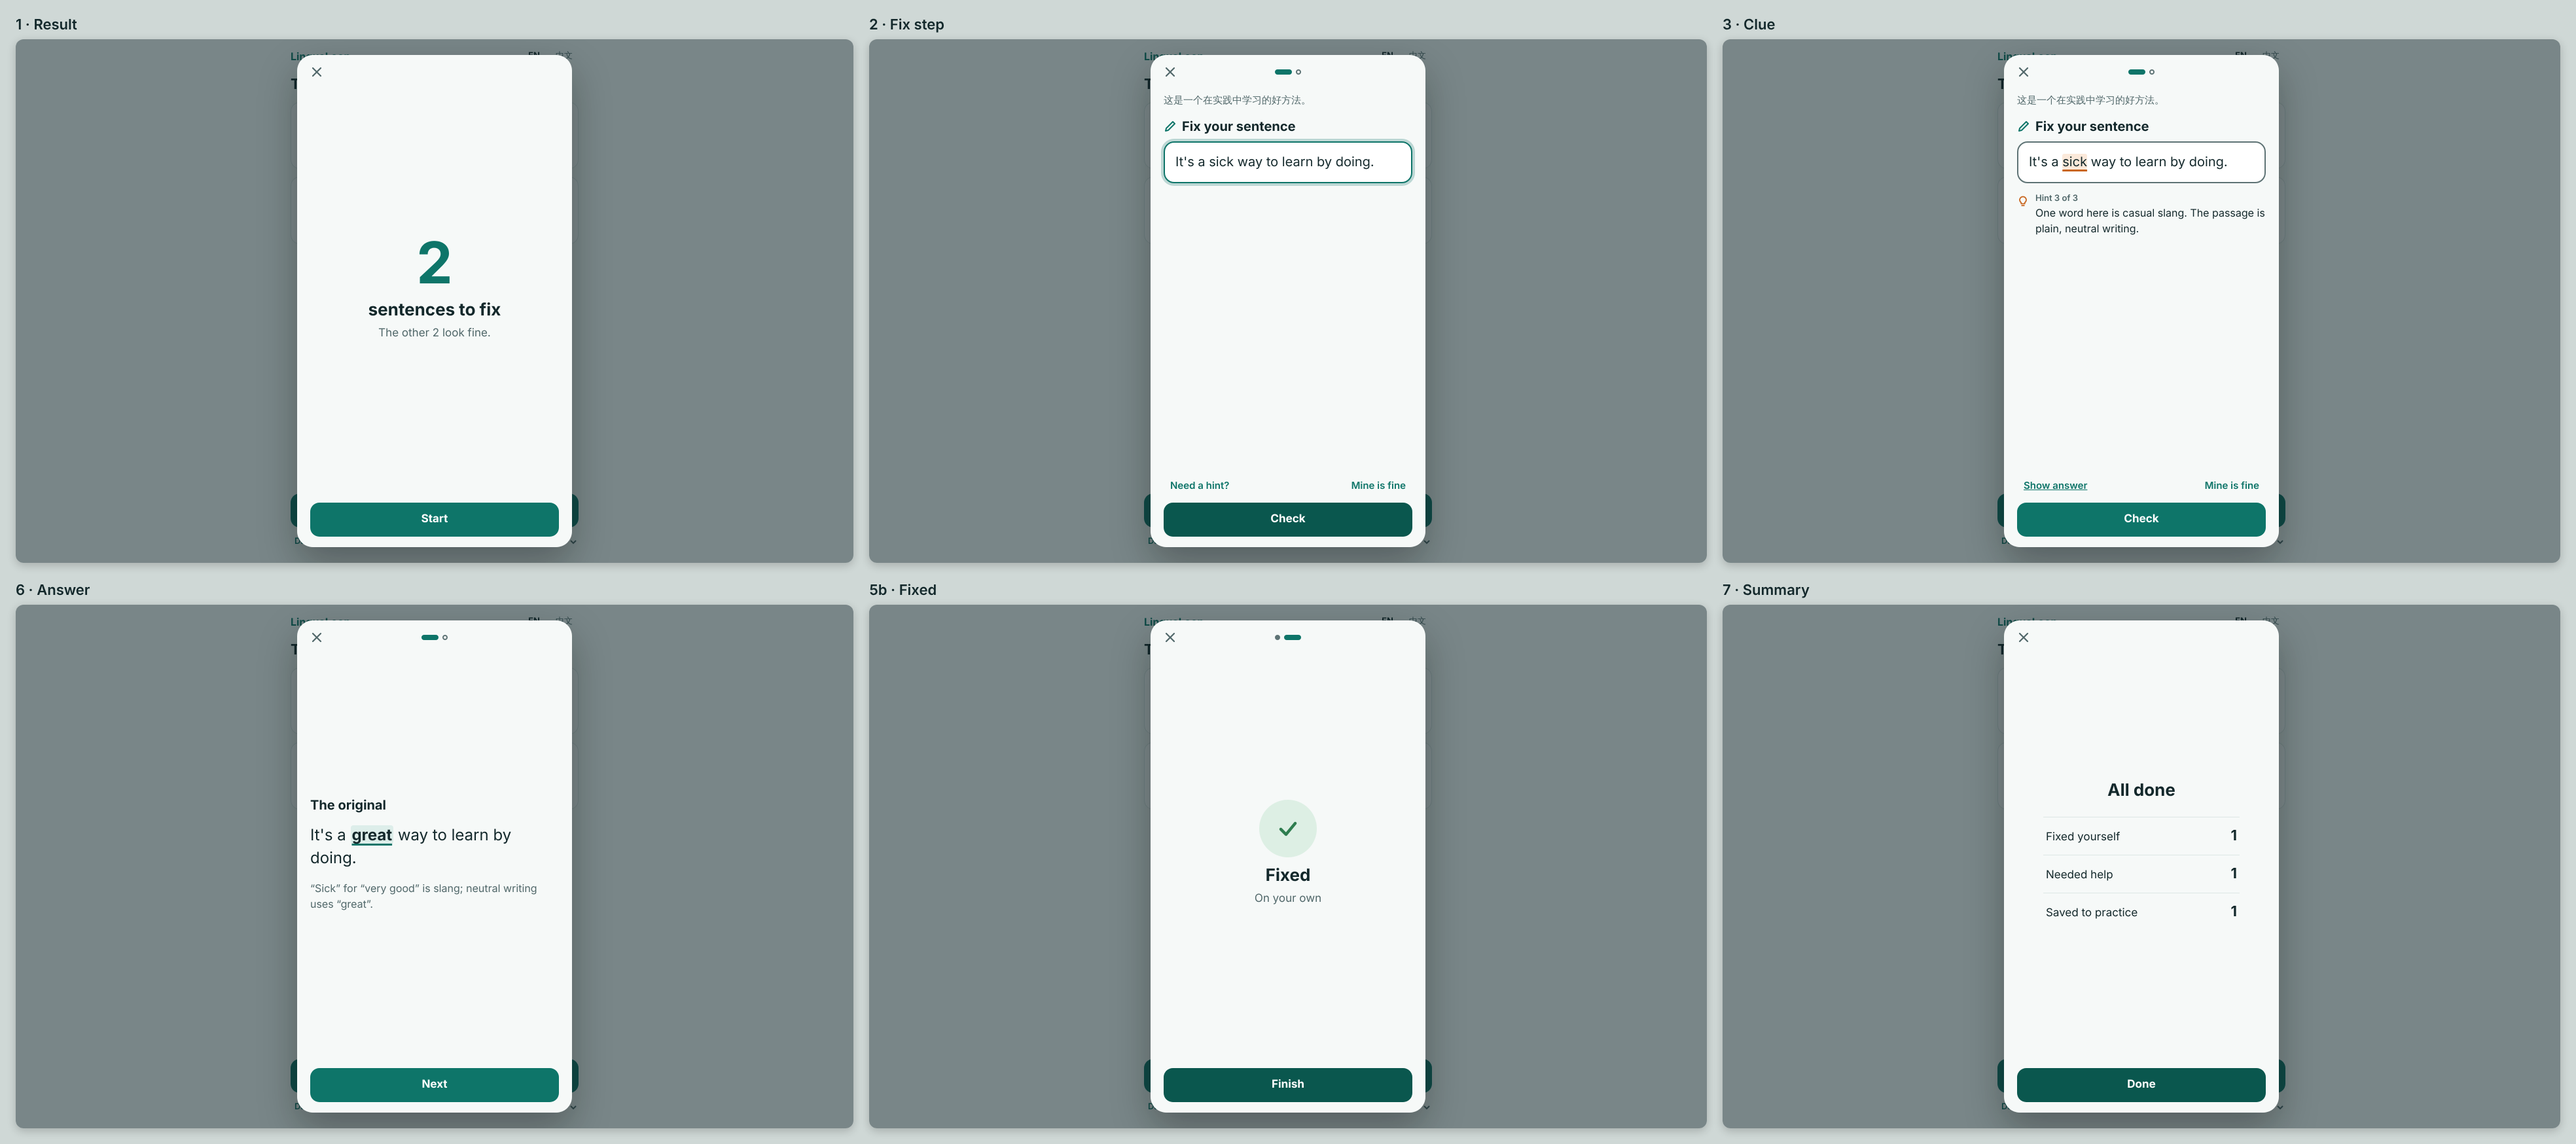
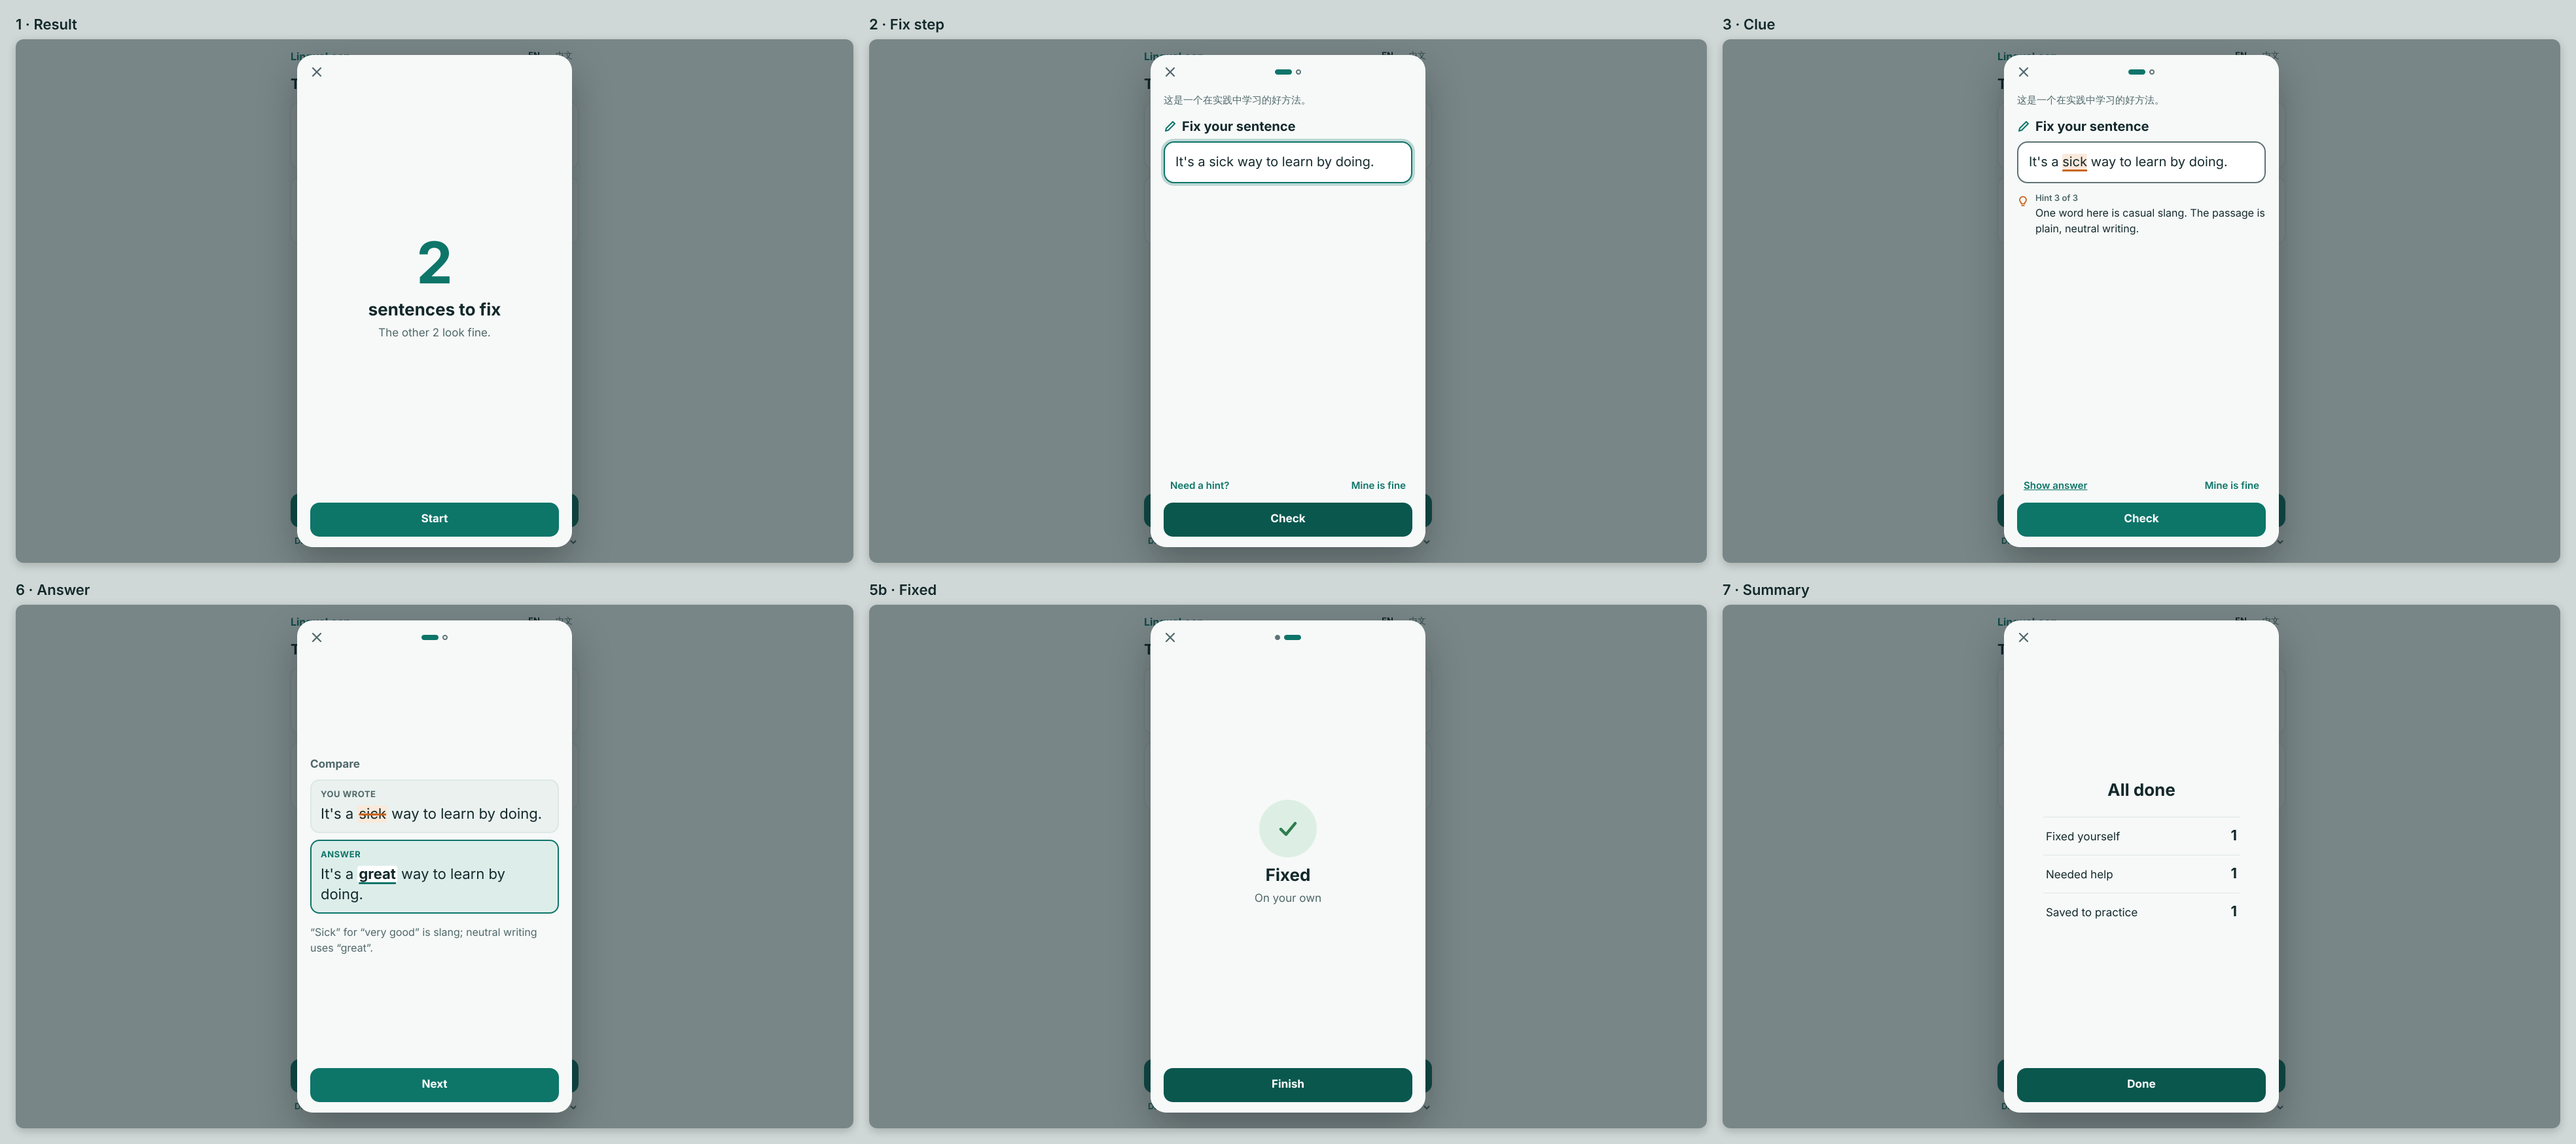
Mockup answer screen: show the learner's original and the answer together
Claude-Session: https://claude.ai/code/session_01Js56QFCaRqabTK3ofNnuDs

Changed region(s): [[0.0938, 0.6796, 0.2188, 0.8341]]

diff --git a/wiki/design/dt-feedback/option-2-guided-self-repair/mockup.html b/wiki/design/dt-feedback/option-2-guided-self-repair/mockup.html
@@ -133,14 +133,23 @@ button{cursor:pointer;background:none;border:0;padding:0;-webkit-tap-highlight-c
 .slot.in{animation:fade .25s}
 @keyframes fade{from{opacity:0;transform:translateY(4px)}}
 
-/* answer / original */
-.orig{margin:auto 0;padding-bottom:24px}
-.orig h2{font-family:var(--display);font-size:1.25rem;margin:0 0 14px}
-.orig .sent{font-size:1.5rem;line-height:1.45;margin:0 0 16px;overflow-wrap:anywhere}
-.orig .sent:lang(zh),.orig .sent:lang(ja){line-height:1.6}
-.orig.f1 .sent{font-size:1.25rem}.orig.f2 .sent{font-size:1.0625rem}.orig.f3 .sent{font-size:.9375rem}
-.orig .sent b{font-weight:700;background:var(--wash);border-radius:4px;text-decoration:underline 3px var(--primary);text-underline-offset:5px;padding:0 2px}
-.orig .why{margin:0;color:var(--text-2);font-size:1rem}
+/* answer: what you wrote, then the answer, stacked */
+.orig{margin:auto 0;padding-bottom:16px;display:flex;flex-direction:column;min-height:0}
+.orig h2{font-family:var(--display);font-size:1.0625rem;margin:0 0 10px;color:var(--text-2)}
+.cmp{flex:none;display:block;width:100%;text-align:left;margin:0 0 10px;padding:12px 14px;border-radius:14px;border:2px solid var(--hairline);background:var(--bg-muted);font:inherit;color:var(--text);min-height:0}
+.cmp.ans{background:var(--wash);border-color:var(--primary)}
+.cmp .tag{display:block;margin:0 0 4px;font-size:.8125rem;font-weight:700;letter-spacing:.04em;text-transform:uppercase;color:var(--text-2)}
+.cmp.ans .tag{color:var(--primary)}
+.cmp .sent{display:block;font-size:1.375rem;line-height:1.4;overflow-wrap:anywhere}
+.cmp .sent:lang(zh),.cmp .sent:lang(ja){line-height:1.6}
+.orig.f1 .sent{font-size:1.1875rem}.orig.f2 .sent{font-size:1.0625rem}.orig.f3 .sent{font-size:.9375rem}
+.orig.clamp .sent{display:-webkit-box;-webkit-box-orient:vertical;-webkit-line-clamp:var(--cl,3);overflow:hidden}
+.orig.tt h2{display:none}.orig.tt .cmp{padding:8px 12px;margin-bottom:6px}.orig.tt .why{margin-top:2px;font-size:.875rem}
+.orig.clamp .cmp.more{cursor:pointer}
+.cmp .sent del{text-decoration:line-through 3px var(--mark);background:var(--mark-wash);border-radius:4px;padding:0 2px}
+.cmp .sent b{font-weight:700;background:var(--bg-surface);border-radius:4px;text-decoration:underline 3px var(--primary);text-underline-offset:5px;padding:0 2px}
+.orig .why{margin:6px 0 0;color:var(--text-2);font-size:1rem}
+.orig.f2 .why,.orig.f3 .why{font-size:.9375rem}
 
 /* keyboard open on a phone: keep only label + field + one row of actions */
 .kb .prompt,.kb .eyebrow,.kb #fine{display:none}
@@ -158,6 +167,9 @@ button{cursor:pointer;background:none;border:0;padding:0;-webkit-tap-highlight-c
 
 /* full-prompt overlay (tap a truncated prompt) */
 .full{position:absolute;inset:0;z-index:2;background:var(--bg-body);display:grid;place-items:center;padding:32px 24px;font-size:1.25rem;text-align:left;width:100%;height:100%}
+.full .tag{display:block;margin:0 0 6px;font-size:.8125rem;font-weight:700;letter-spacing:.04em;text-transform:uppercase;color:var(--text-2)}
+.full del{text-decoration:line-through 3px var(--mark);background:var(--mark-wash);border-radius:4px;padding:0 2px}
+.full b{font-weight:700;text-decoration:underline 3px var(--primary);text-underline-offset:5px;padding:0 2px}
 .full small{position:absolute;bottom:24px;left:0;right:0;text-align:center;color:var(--text-2);font-size:.875rem}
 </style>
 </head>
@@ -361,8 +373,12 @@ function draw(dir=true){
     h = `<div class="moment"><div class="badge n pop">${I.dash}</div><h2 tabindex="-1">Kept as written</h2><p>We’ll leave this one alone.</p></div>`;
     a = `<button class="btn primary" id="next">${nextLabel}</button>`;
   } else if(S.view==='reveal' || S.view==='alt'){
-    const t = S.view==='alt' ? 'No issue found. The original says:' : s.outcome==='disputed' ? 'Noted. The original says:' : 'The original';
-    h = `<div class="orig" id="orig"><h2 tabindex="-1">${t}</h2><p class="sent" lang="${s.lang||S.lang}">${esc(s.ref).replace(esc(s.good), `<b>${esc(s.good)}</b>`)}</p><p class="why">${esc(s.why)}</p></div>`;
+    const t = S.view==='alt' ? 'No issue found. Compare:' : s.outcome==='disputed' ? 'Noted. Compare:' : 'Compare';
+    const L = s.lang||S.lang, mine = esc(s.text).replace(esc(s.bad), `<del>${esc(s.bad)}</del>`), ans = esc(s.ref).replace(esc(s.good), `<b>${esc(s.good)}</b>`);
+    h = `<div class="orig" id="orig"><h2 tabindex="-1">${t}</h2>`
+      + `<button class="cmp mine" id="cmpMine" lang="${L}" tabindex="-1"><span class="tag">You wrote</span><span class="sent">${mine}</span></button>`
+      + `<button class="cmp ans" id="cmpAns" lang="${L}" tabindex="-1"><span class="tag">Answer</span><span class="sent">${ans}</span></button>`
+      + `<p class="why">${esc(s.why)}</p></div>`;
     a = `<button class="btn primary" id="next">${nextLabel}</button>`;
   } else if(S.view==='summary'){
     const c = tally();
@@ -398,7 +414,12 @@ function paint(){
   m.scrollTop = ta.scrollTop;
   const pr = $('#prompt'), sp = pr.firstElementChild; pr.classList.toggle('more', sp.scrollHeight > sp.clientHeight+1); pr.tabIndex = pr.classList.contains('more') ? 0 : -1;
 }
-function fitOrig(){ const o = $('#orig'); if(!o) return; const st = $('#stage'); for(const c of ['f1','f2','f3']){ if(st.scrollHeight <= st.clientHeight) break; o.classList.add(c); } }
+function fitOrig(){ const o = $('#orig'); if(!o) return; const st = $('#stage'); const over = () => st.scrollHeight > st.clientHeight;
+  for(const c of ['f1','f2','f3']){ if(!over()) break; o.classList.add(c); }
+  for(const n of [3,2,1]){ if(!over()) break; o.classList.add('clamp'); o.style.setProperty('--cl', n); }
+  if(over()){ o.classList.add('tt'); for(const n of [2,1]){ if(!over()) break; o.style.setProperty('--cl', n); } }
+  for(const b of o.querySelectorAll('.cmp')){ const sp = b.querySelector('.sent'), more = o.classList.contains('clamp') && sp.scrollHeight > sp.clientHeight+1; b.classList.toggle('more', more); b.tabIndex = more ? 0 : -1; b.onclick = () => { if(b.classList.contains('more')) showFull(b); }; } }
+function showFull(b){ const full = document.createElement('button'); full.className = 'full'; full.lang = b.lang; full.innerHTML = `<span><span class="tag" lang="en">${b.querySelector('.tag').textContent}</span>${b.querySelector('.sent').innerHTML}</span><small lang="en">Tap to close</small>`; full.onclick = () => full.remove(); $('#sheet').appendChild(full); }
 
 /* the single hint slot: a new hint or message replaces what was there */
 function slot(anim){

diff --git a/wiki/design/dt-feedback/option-2-guided-self-repair/SPEC.md b/wiki/design/dt-feedback/option-2-guided-self-repair/SPEC.md
@@ -64,7 +64,7 @@ describes layout, it is marked **Superseded by Revision 2**.
 | 4 | Checking | Same screen; the button shows a spinner and "Checking…", the field is read-only, a second press is ignored (1–2 s) | — | — |
 | 5a | Still not quite | Same screen; the slot says "Still not quite. Try again, or take a hint."; the field shakes once. Unchanged text: "That's the same sentence. Change something first." (no grader call) | Check | as above |
 | 5b | Fixed | Tick, "Fixed", one line ("On your own" / "With 2 hints") | Next (auto after ~1.6 s) | — |
-| 6 | Answer | "The original", the original sentence with the differing part marked, one line of explanation. Also used, with a different heading, for "No issue found. The original says:" and after a dispute ("Noted. The original says:"). Reached by "Show answer" or automatically after the 4th failed check (3rd in daily practice). | Next | — |
+| 6 | Answer | Two labelled blocks, stacked so they can be compared at a glance: **"You wrote"** (muted card) over **"Answer"** (tinted card with a stronger border), then one line of explanation. A small heading says "Compare" ("No issue found. Compare:" after an alternative fix; "Noted. Compare:" after a dispute). In "You wrote" the problem part is struck through with a tinted background; in "Answer" the corresponding corrected part is bold and underlined. Colour never carries the marking alone. Reached by "Show answer" or automatically after the 4th failed check (3rd in daily practice); same screen in daily practice and for en, zh and ja. | Next | — |
 | 7 | Summary | "All done" and three counts: Fixed yourself / Needed help / Saved to practice | Done → existing result screen | — |
 
 Progress is a row of dots in the header (the current one is longer, so shape as well as colour
@@ -121,7 +121,7 @@ The longest gold sentences were used as test items: en 69 characters (`en_clean_
    reaches this at the tested sizes.
 3. The L1 prompt is clamped to two lines. If it is cut, tapping it opens the full prompt as an
    overlay on the same screen; tapping again closes it.
-4. The answer screen uses the same type steps (24 → 20 → 17 → 15 px).
+4. The answer screen (two blocks) steps the sentence type down 22 → 19 → 17 → 15 px. If both blocks still do not fit, each sentence is clamped to 3, then 2, then 1 line; a clamped block is tappable and opens the full sentence (with its marking) as an overlay, tap to close. On the shortest keyboard-open heights the "Compare" heading is also hidden. The longest test items (ja 82 characters) fit at 375×667 without clamping.
 5. With the keyboard open on a short phone the prompt line is hidden, and below 400 px of visible
    height the label is hidden visually while a hint is showing (it stays available to screen readers).
 
@@ -144,8 +144,16 @@ longer than this fail review.
   result and latency, time since the previous event, answer shown (asked or automatic), dispute,
   skip, and the episode outcome with total time. The mockup writes these to `window.__events`.
 
-**Verified in the mockup** (2026-11-14, Chromium via Playwright, `node verify.cjs`): 766 step checks
-passed, 0 failed. They cover en and zh flows (fix first try, all hints then answer, four failed
+**Answer-screen terms (unambiguous labels).** "You wrote" is always the learner's own submitted
+sentence; "Answer" is always the correct target-language sentence. The reference or source-language
+prompt sentence is never labelled "original". If the learner made revision attempts, "You wrote"
+shows the ORIGINAL submission (`text`, the sentence the grader flagged), not the last attempt; the
+attempts are in the event rows (§2.1) and are not shown here. `verify.cjs` asserts this.
+
+**Verified in the mockup** (2026-11-14, Chromium via Playwright, `node verify.cjs`): 738 step checks
+passed, 0 failed (766 with `--shots`, which adds screenshot passes). Each Answer step is also checked
+for both labelled blocks being visible, both marked without relying on colour, stacked in order, and
+"You wrote" equal to the original submission. They cover en and zh flows (fix first try, all hints then answer, four failed
 checks, no-issue-found, dispute, clean, uncertain, daily practice) and the three longest-sentence
 items, at the three viewports and two keyboard-open sizes, in light and dark.
 
